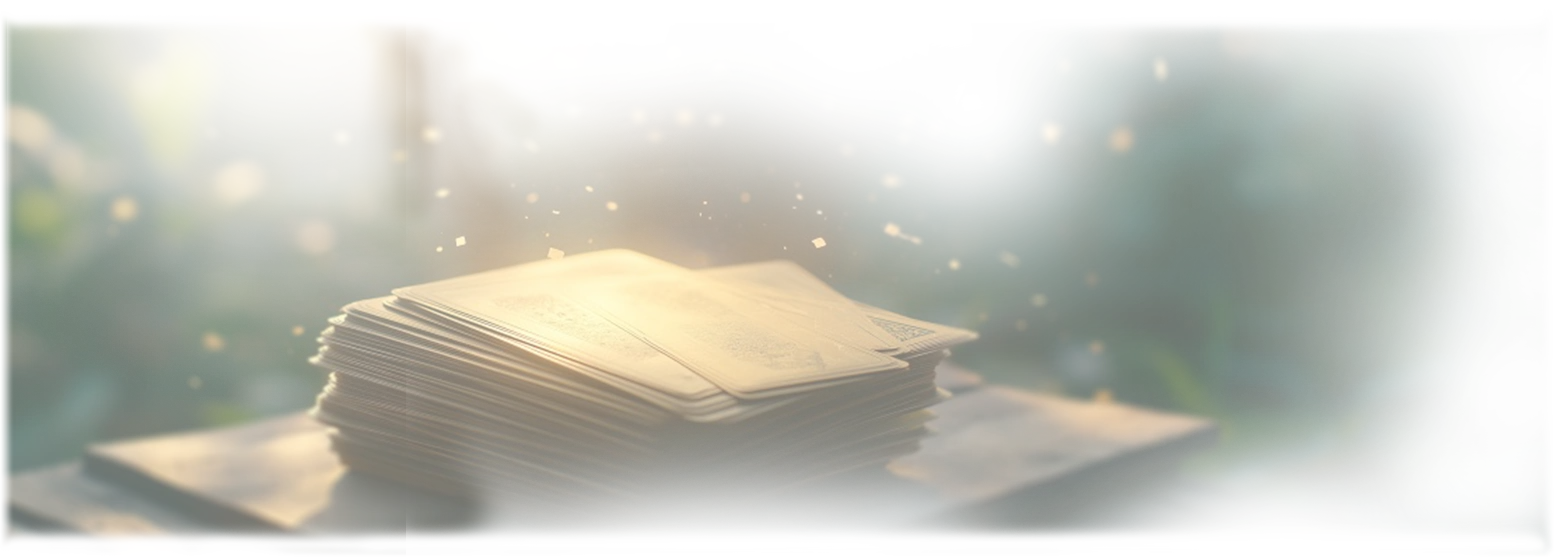
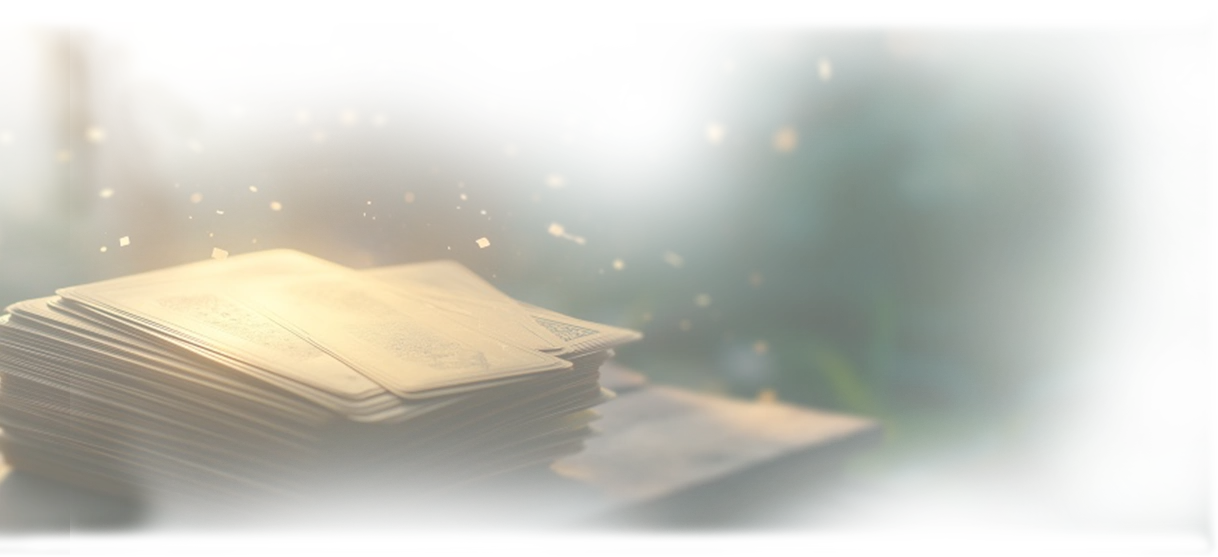
Update book image asset and enhance reveal functionality in check-reveal script. Adjust CSS for improved layout and responsiveness in Hero and HeroActions components, ensuring consistent spacing and visibility of elements during transitions.

diff --git a/src/components/home/HeroActions.tsx b/src/components/home/HeroActions.tsx
@@ -18,6 +18,10 @@ import type { ImageAsset } from "@/lib/assets";
  * together. Both also apply on a restored visit, where the status is already
  * `revealed` on first render.
  *
+ * Neither effect may change this column's height: the hero grid centres it, so
+ * anything that grows here moves the title and the card name too. That is why
+ * the pulse is a shadow and the prompt is always in flow (see below).
+ *
  * This is a client component only because it reads the reveal status; it sits
  * inside `RevealProvider`'s subtree in the hero, so no provider change is
  * needed. `ConceptHero` keeps its own static copy of the action markup.
@@ -78,20 +82,26 @@ export function HeroActions() {
         ))}
       </div>
 
-      {revealed ? (
-        <motion.p
-          className="w-full text-center text-caption tracking-[0.01em] text-mist-dim"
-          initial={skipMotion ? false : { opacity: 0, y: 6 }}
-          animate={{ opacity: 1, y: 0 }}
-          transition={{
-            duration: skipMotion ? 0 : 0.6,
-            delay: skipMotion ? 0 : PROMPT_DELAY_SECONDS,
-            ease: "easeOut",
-          }}
-        >
-          {hero.returnPrompt}
-        </motion.p>
-      ) : null}
+      {/* The prompt holds its place in the flow from first paint and only its
+          opacity animates. Mounting it on reveal grew this column by a line of
+          text, and because the hero grid centres the column, everything above —
+          title, divider, the card name that had just appeared — jumped up half
+          that height the instant the crossfade landed. Reserving the line
+          instead of measuring one is also what keeps it right when the prompt
+          wraps to two lines on a narrow screen. */}
+      <motion.p
+        className="w-full text-center text-caption tracking-[0.01em] text-mist-dim"
+        aria-hidden={!revealed}
+        initial={skipMotion ? false : { opacity: 0, y: 6 }}
+        animate={{ opacity: revealed ? 1 : 0, y: revealed ? 0 : 6 }}
+        transition={{
+          duration: skipMotion ? 0 : 0.6,
+          delay: skipMotion || !revealed ? 0 : PROMPT_DELAY_SECONDS,
+          ease: "easeOut",
+        }}
+      >
+        {hero.returnPrompt}
+      </motion.p>
     </div>
   );
 }

diff --git a/src/components/reveal/RevealTrigger.tsx b/src/components/reveal/RevealTrigger.tsx
@@ -57,7 +57,12 @@ export function RevealTrigger({
   return (
     <div
       className={cn(
-        "stack w-fit max-w-full min-h-[2.66em] place-items-center text-center text-nav lg:w-full lg:max-w-[28.0625rem]",
+        // The height is the button's (2.66em) plus room to breathe, and it is
+        // deliberately more than either state needs: both the button and the
+        // name block centre inside a box that never resizes, so the swap cannot
+        // move the hero column around it. Raise this, not the inner spacing, if
+        // the name block ever grows past it.
+        "stack w-fit max-w-full min-h-[3.4em] place-items-center text-center text-nav lg:w-full lg:max-w-[28.0625rem]",
         className,
       )}
     >
@@ -94,7 +99,7 @@ export function RevealTrigger({
           ) : (
             <motion.div
               key="name"
-              className="flex w-full flex-col justify-center gap-[0.15em]"
+              className="flex w-full flex-col justify-center gap-[0.3em]"
               initial={enterFrom}
               animate={visible}
               transition={enterTransition}

diff --git a/src/components/home/Hero.tsx b/src/components/home/Hero.tsx
@@ -34,8 +34,10 @@ export function Hero() {
               <p className="max-w-[80%] text-body leading-[1.11] text-mist">{hero.body}</p>
 
               {/* `self-center` overrides the column's `lg:items-start`: the client wants
-                  this one block centred while the actions below stay left-aligned. */}
-              <RevealTrigger className="mt-[0.55em] lg:self-center" />
+                  this one block centred while the actions below stay left-aligned. The
+                  margins are its own, not the column's `gap`, so the reveal keeps clear
+                  air around it whichever of its two states is showing. */}
+              <RevealTrigger className="mt-[0.8em] mb-[0.55em] lg:self-center" />
 
               <HeroActions />
             </div>

diff --git a/src/components/home/ArtistNote.tsx b/src/components/home/ArtistNote.tsx
@@ -22,7 +22,7 @@ export function ArtistNote() {
       <Divider variant="flourish" />
 
       <div className="relative">
-        <div aria-hidden className="pointer-events-none absolute top-1/2 left-0 z-0 w-[70vw] -translate-y-1/2">
+        <div aria-hidden className="pointer-events-none absolute top-1/2 left-0 z-0 w-[60vw] -translate-y-1/2">
           <Image
             src={artwork.book.src}
             alt=""
